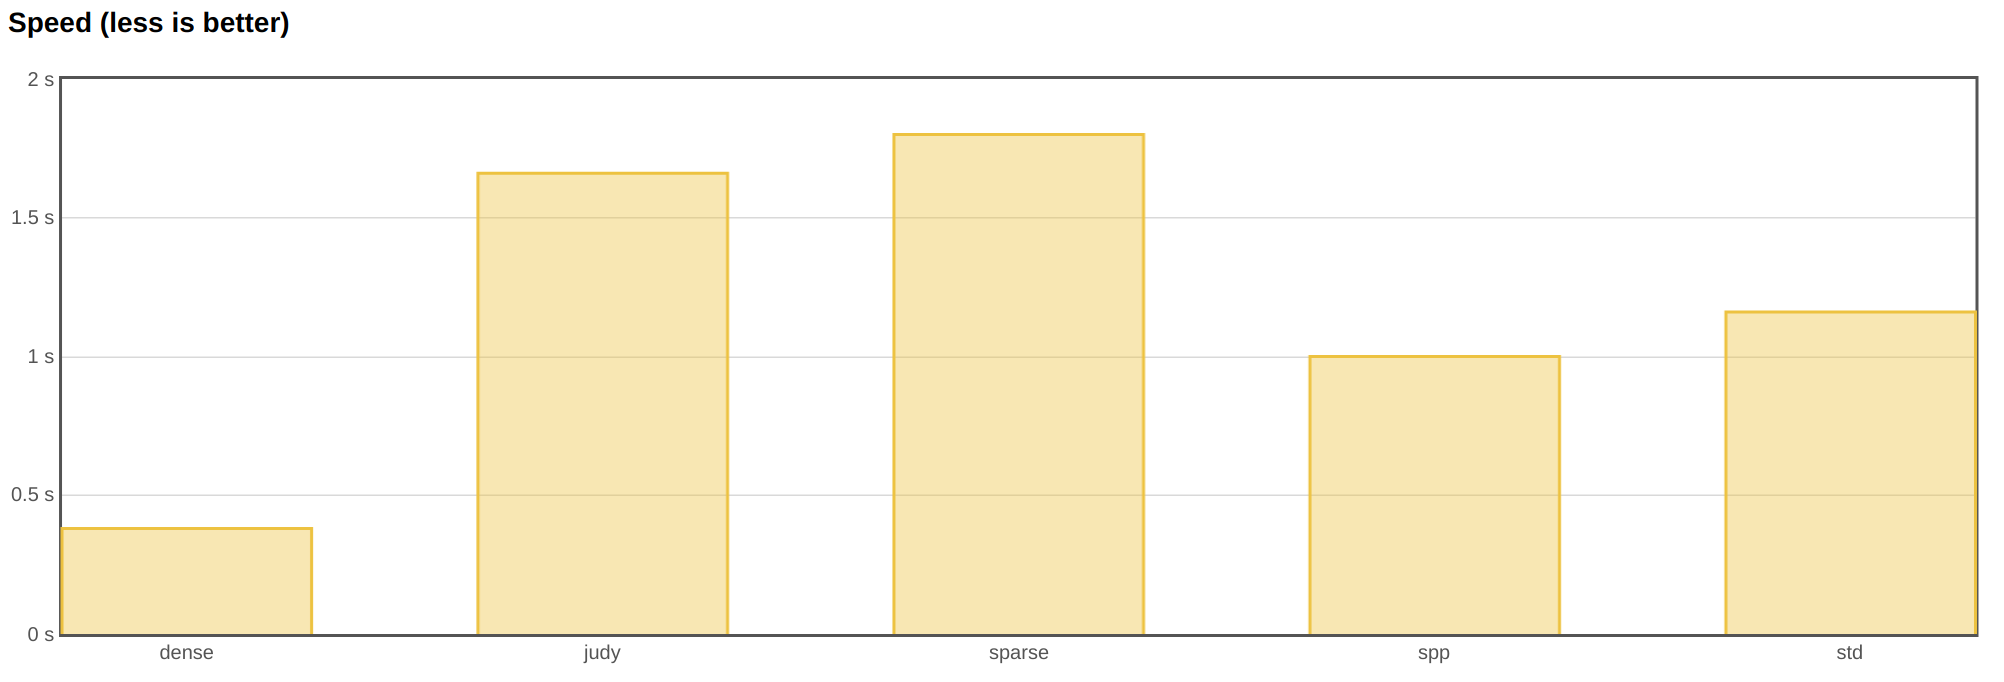
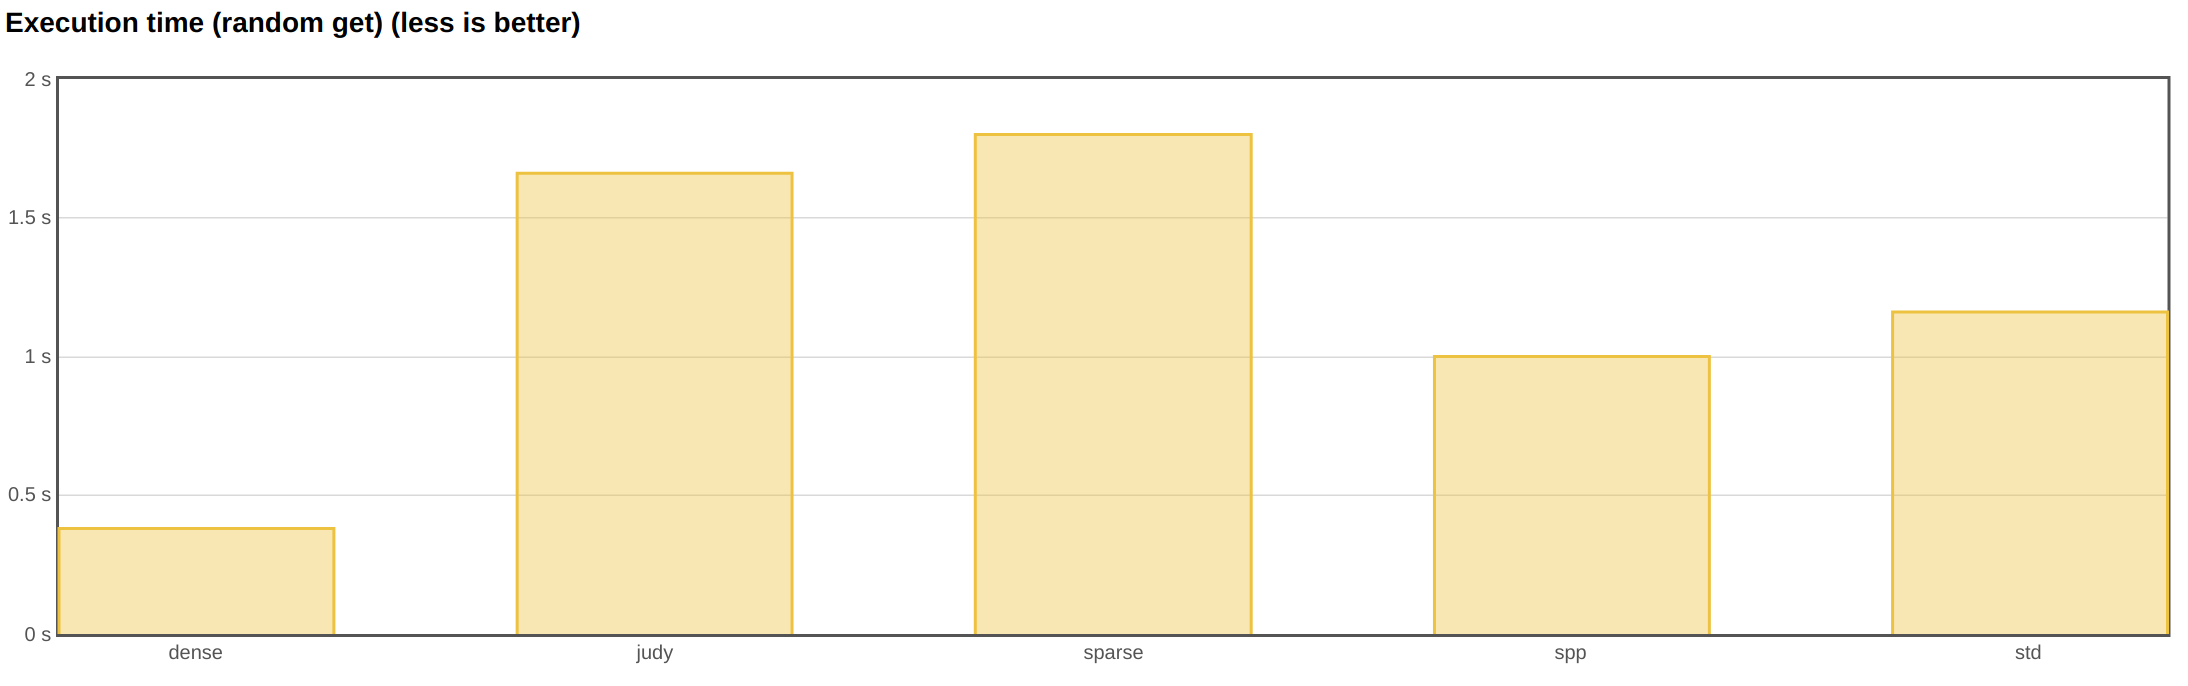
some updates

diff --git a/charts-template.html b/charts-template.html
@@ -55,13 +55,13 @@
 
 <div class="global">
 
-<h3>Speed (less is better)</h3>
+<h3>Execution time (random get) (less is better)</h3>
 <div class="chart" id="speed"></div>
 
 <h3>Memory (less is better)</h3>
 <div class="chart" id="memory"></div>
 
-<h3>Hash Functions (less is better)</h3>
+<h3>Different Hash Functions (less is better)</h3>
 <div class="chart" id="hash_functions"></div>
 
 <h3>Jemalloc (less is better)</h3>

diff --git a/charts.html b/charts.html
@@ -55,13 +55,13 @@
 
 <div class="global">
 
-<h3>Speed (less is better)</h3>
+<h3>Execution time (random get) (less is better)</h3>
 <div class="chart" id="speed"></div>
 
 <h3>Memory (less is better)</h3>
 <div class="chart" id="memory"></div>
 
-<h3>Hash Functions (less is better)</h3>
+<h3>Different Hash Functions (less is better)</h3>
 <div class="chart" id="hash_functions"></div>
 
 <h3>Jemalloc (less is better)</h3>
